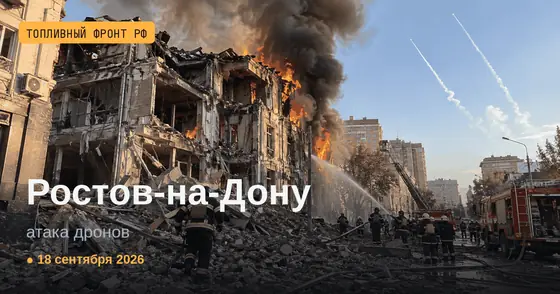
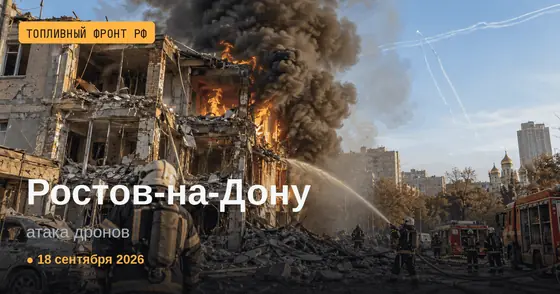
news: regenerate SEO digest + archive

diff --git a/news/2026-09-18.html b/news/2026-09-18.html
@@ -17,7 +17,7 @@
   <meta property="og:url" content="https://npz-tactical-map.vercel.app/news/2026-09-18">
   <meta property="og:title" content="Сводка за 18 сентября 2026: 2 удара по РФ: Ростов-на-Дону, Саки | Топливный фронт РФ">
   <meta property="og:description" content="Топливный фронт РФ за 18 сентября 2026: Вторую ночь подряд беспилотники атаковали аэродром в Ростове-на-Дону; над областью, по данным властей, сбито более 50 БПЛА (Батайск, Таганрог, Азов, А… Удары по НПЗ, дефицит бензина, лимиты на АЗС.">
-  <meta property="og:image" content="https://npz-tactical-map.vercel.app/assets/cover-2026-09-18.png?v=64e28079">
+  <meta property="og:image" content="https://npz-tactical-map.vercel.app/assets/cover-2026-09-18.png?v=89ade970">
   <meta property="og:image:alt" content="Сводка ударов по НПЗ и дефицита бензина — Топливный фронт РФ">
   <meta property="og:image:width" content="1200">
   <meta property="og:image:height" content="630">
@@ -25,12 +25,12 @@
   <meta name="twitter:card" content="summary_large_image">
   <meta name="twitter:title" content="Сводка за 18 сентября 2026: 2 удара по РФ: Ростов-на-Дону, Саки | Топливный фронт РФ">
   <meta name="twitter:description" content="Топливный фронт РФ за 18 сентября 2026: Вторую ночь подряд беспилотники атаковали аэродром в Ростове-на-Дону; над областью, по данным властей, сбито более 50 БПЛА (Батайск, Таганрог, Азов, А… Удары по НПЗ, дефицит бензина, лимиты на АЗС.">
-  <meta name="twitter:image" content="https://npz-tactical-map.vercel.app/assets/cover-2026-09-18.png?v=64e28079">
+  <meta name="twitter:image" content="https://npz-tactical-map.vercel.app/assets/cover-2026-09-18.png?v=89ade970">
   <meta name="twitter:image:alt" content="NPZ Tactical Map — Russia Fuel Crisis Daily Brief">
 
   <link rel="alternate" type="application/rss+xml" title="Топливный фронт РФ — сводки (RSS)" href="https://npz-tactical-map.vercel.app/rss.xml">
 
-  <script type="application/ld+json">{"@context": "https://schema.org", "@type": "NewsArticle", "headline": "Сводка за 18 сентября 2026: 2 удара по РФ: Ростов-на-Дону, Саки", "datePublished": "2026-09-18", "dateModified": "2026-09-19", "image": ["https://npz-tactical-map.vercel.app/assets/cover-2026-09-18.png?v=64e28079"], "author": {"@type": "Organization", "name": "Топливный фронт РФ"}, "publisher": {"@type": "Organization", "name": "Топливный фронт РФ", "url": "https://npz-tactical-map.vercel.app/"}, "description": "Топливный фронт РФ за 18 сентября 2026: Вторую ночь подряд беспилотники атаковали аэродром в Ростове-на-Дону; над областью, по данным властей, сбито более 50 БПЛА (Батайск, Таганрог, Азов, А… Удары по НПЗ, дефицит бензина, лимиты на АЗС.", "mainEntityOfPage": "https://npz-tactical-map.vercel.app/news/2026-09-18", "isAccessibleForFree": true}</script>
+  <script type="application/ld+json">{"@context": "https://schema.org", "@type": "NewsArticle", "headline": "Сводка за 18 сентября 2026: 2 удара по РФ: Ростов-на-Дону, Саки", "datePublished": "2026-09-18", "dateModified": "2026-09-19", "image": ["https://npz-tactical-map.vercel.app/assets/cover-2026-09-18.png?v=89ade970"], "author": {"@type": "Organization", "name": "Топливный фронт РФ"}, "publisher": {"@type": "Organization", "name": "Топливный фронт РФ", "url": "https://npz-tactical-map.vercel.app/"}, "description": "Топливный фронт РФ за 18 сентября 2026: Вторую ночь подряд беспилотники атаковали аэродром в Ростове-на-Дону; над областью, по данным властей, сбито более 50 БПЛА (Батайск, Таганрог, Азов, А… Удары по НПЗ, дефицит бензина, лимиты на АЗС.", "mainEntityOfPage": "https://npz-tactical-map.vercel.app/news/2026-09-18", "isAccessibleForFree": true}</script>
   <script type="application/ld+json">{"@context": "https://schema.org", "@type": "BreadcrumbList", "itemListElement": [{"@type": "ListItem", "position": 1, "name": "Топливный фронт РФ", "item": "https://npz-tactical-map.vercel.app/"}, {"@type": "ListItem", "position": 2, "name": "Сводки", "item": "https://npz-tactical-map.vercel.app/news"}, {"@type": "ListItem", "position": 3, "name": "Сентябрь 2026", "item": "https://npz-tactical-map.vercel.app/news/2026-09"}, {"@type": "ListItem", "position": 4, "name": "18 сентября 2026", "item": "https://npz-tactical-map.vercel.app/news/2026-09-18"}]}</script>
 
   <script>window.va = window.va || function () { (window.vaq = window.vaq || []).push(arguments); };</script>
@@ -194,7 +194,7 @@
     <div class="news-container">
       <nav class="brief-crumb"><a href="/news">📰 Все сводки</a> <span>/</span> <a href="/news/2026-09">Сентябрь 2026</a> <span>/</span> 18 сентября 2026</nav>
       <section class="news-hero">
-        <img class="news-hero-image" src="/assets/cover-2026-09-18.webp?v=f655564d" alt="Сводка за 18 сентября 2026" width="1200" height="630" loading="eager">
+        <img class="news-hero-image" src="/assets/cover-2026-09-18.webp?v=04130e2c" alt="Сводка за 18 сентября 2026" width="1200" height="630" loading="eager">
         <span class="hero-kicker">пятница, 18.09.2026</span>
         <h1>Топливный фронт РФ — сводка за 18 сентября 2026</h1>
         <p class="section-sub">2 зафиксированных удара. OSINT-агрегация по открытым источникам.</p>

diff --git a/news/2026-05-30.html b/news/2026-05-30.html
@@ -17,7 +17,7 @@
   <meta property="og:url" content="https://npz-tactical-map.vercel.app/news/2026-05-30">
   <meta property="og:title" content="Сводка за 30 мая 2026: Удар по нефтебазе в Ростове-на-Дону и ещё 1 удар | Топливный фронт РФ">
   <meta property="og:description" content="Топливный фронт РФ за 30 мая 2026: В ходе ночной атаки 29–30 мая уничтожено 127 БПЛА. Наиболее тяжёлые последствия — в Белгородской области: 3 погибших. Атаке подверглись Белгородская,… Удары по НПЗ, дефицит бензина, лимиты на АЗС.">
-  <meta property="og:image" content="https://npz-tactical-map.vercel.app/og-image.png">
+  <meta property="og:image" content="https://npz-tactical-map.vercel.app/assets/cover-2026-05-30.png?v=9de6d592">
   <meta property="og:image:alt" content="Сводка ударов по НПЗ и дефицита бензина — Топливный фронт РФ">
   <meta property="og:image:width" content="1200">
   <meta property="og:image:height" content="630">
@@ -25,12 +25,12 @@
   <meta name="twitter:card" content="summary_large_image">
   <meta name="twitter:title" content="Сводка за 30 мая 2026: Удар по нефтебазе в Ростове-на-Дону и ещё 1 удар | Топливный фронт РФ">
   <meta name="twitter:description" content="Топливный фронт РФ за 30 мая 2026: В ходе ночной атаки 29–30 мая уничтожено 127 БПЛА. Наиболее тяжёлые последствия — в Белгородской области: 3 погибших. Атаке подверглись Белгородская,… Удары по НПЗ, дефицит бензина, лимиты на АЗС.">
-  <meta name="twitter:image" content="https://npz-tactical-map.vercel.app/og-image.png">
+  <meta name="twitter:image" content="https://npz-tactical-map.vercel.app/assets/cover-2026-05-30.png?v=9de6d592">
   <meta name="twitter:image:alt" content="NPZ Tactical Map — Russia Fuel Crisis Daily Brief">
 
   <link rel="alternate" type="application/rss+xml" title="Топливный фронт РФ — сводки (RSS)" href="https://npz-tactical-map.vercel.app/rss.xml">
 
-  <script type="application/ld+json">{"@context": "https://schema.org", "@type": "NewsArticle", "headline": "Сводка за 30 мая 2026: Удар по нефтебазе в Ростове-на-Дону и ещё 1 удар", "datePublished": "2026-05-30", "dateModified": "2026-09-19", "image": ["https://npz-tactical-map.vercel.app/og-image.png"], "author": {"@type": "Organization", "name": "Топливный фронт РФ"}, "publisher": {"@type": "Organization", "name": "Топливный фронт РФ", "url": "https://npz-tactical-map.vercel.app/"}, "description": "Топливный фронт РФ за 30 мая 2026: В ходе ночной атаки 29–30 мая уничтожено 127 БПЛА. Наиболее тяжёлые последствия — в Белгородской области: 3 погибших. Атаке подверглись Белгородская,… Удары по НПЗ, дефицит бензина, лимиты на АЗС.", "mainEntityOfPage": "https://npz-tactical-map.vercel.app/news/2026-05-30", "isAccessibleForFree": true}</script>
+  <script type="application/ld+json">{"@context": "https://schema.org", "@type": "NewsArticle", "headline": "Сводка за 30 мая 2026: Удар по нефтебазе в Ростове-на-Дону и ещё 1 удар", "datePublished": "2026-05-30", "dateModified": "2026-09-19", "image": ["https://npz-tactical-map.vercel.app/assets/cover-2026-05-30.png?v=9de6d592"], "author": {"@type": "Organization", "name": "Топливный фронт РФ"}, "publisher": {"@type": "Organization", "name": "Топливный фронт РФ", "url": "https://npz-tactical-map.vercel.app/"}, "description": "Топливный фронт РФ за 30 мая 2026: В ходе ночной атаки 29–30 мая уничтожено 127 БПЛА. Наиболее тяжёлые последствия — в Белгородской области: 3 погибших. Атаке подверглись Белгородская,… Удары по НПЗ, дефицит бензина, лимиты на АЗС.", "mainEntityOfPage": "https://npz-tactical-map.vercel.app/news/2026-05-30", "isAccessibleForFree": true}</script>
   <script type="application/ld+json">{"@context": "https://schema.org", "@type": "BreadcrumbList", "itemListElement": [{"@type": "ListItem", "position": 1, "name": "Топливный фронт РФ", "item": "https://npz-tactical-map.vercel.app/"}, {"@type": "ListItem", "position": 2, "name": "Сводки", "item": "https://npz-tactical-map.vercel.app/news"}, {"@type": "ListItem", "position": 3, "name": "Май 2026", "item": "https://npz-tactical-map.vercel.app/news/2026-05"}, {"@type": "ListItem", "position": 4, "name": "30 мая 2026", "item": "https://npz-tactical-map.vercel.app/news/2026-05-30"}]}</script>
 
   <script>window.va = window.va || function () { (window.vaq = window.vaq || []).push(arguments); };</script>
@@ -194,7 +194,7 @@
     <div class="news-container">
       <nav class="brief-crumb"><a href="/news">📰 Все сводки</a> <span>/</span> <a href="/news/2026-05">Май 2026</a> <span>/</span> 30 мая 2026</nav>
       <section class="news-hero">
-        <img class="news-hero-image" src="/og-image.png" alt="Сводка за 30 мая 2026" width="1200" height="630" loading="eager">
+        <img class="news-hero-image" src="/assets/cover-2026-05-30.webp?v=978396c4" alt="Сводка за 30 мая 2026" width="1200" height="630" loading="eager">
         <span class="hero-kicker">суббота, 30.05.2026</span>
         <h1>Топливный фронт РФ — сводка за 30 мая 2026</h1>
         <p class="section-sub">2 зафиксированных удара · 1 по НПЗ/энергетике. OSINT-агрегация по открытым источникам.</p>

diff --git a/news/2026-05-29.html b/news/2026-05-29.html
@@ -17,7 +17,7 @@
   <meta property="og:url" content="https://npz-tactical-map.vercel.app/news/2026-05-29">
   <meta property="og:title" content="Сводка за 29 мая 2026: 1 удар по РФ: Белгород | Топливный фронт РФ">
   <meta property="og:description" content="Топливный фронт РФ за 29 мая 2026: В результате детонации дрона при ударе по посёлку Октябрьский Белгородской области погиб мужчина. РИА Новости подтвердило факт гибели. Удары по НПЗ, дефицит бензина, лимиты на АЗС.">
-  <meta property="og:image" content="https://npz-tactical-map.vercel.app/og-image.png">
+  <meta property="og:image" content="https://npz-tactical-map.vercel.app/assets/cover-2026-05-29.png?v=d66fe0e3">
   <meta property="og:image:alt" content="Сводка ударов по НПЗ и дефицита бензина — Топливный фронт РФ">
   <meta property="og:image:width" content="1200">
   <meta property="og:image:height" content="630">
@@ -25,12 +25,12 @@
   <meta name="twitter:card" content="summary_large_image">
   <meta name="twitter:title" content="Сводка за 29 мая 2026: 1 удар по РФ: Белгород | Топливный фронт РФ">
   <meta name="twitter:description" content="Топливный фронт РФ за 29 мая 2026: В результате детонации дрона при ударе по посёлку Октябрьский Белгородской области погиб мужчина. РИА Новости подтвердило факт гибели. Удары по НПЗ, дефицит бензина, лимиты на АЗС.">
-  <meta name="twitter:image" content="https://npz-tactical-map.vercel.app/og-image.png">
+  <meta name="twitter:image" content="https://npz-tactical-map.vercel.app/assets/cover-2026-05-29.png?v=d66fe0e3">
   <meta name="twitter:image:alt" content="NPZ Tactical Map — Russia Fuel Crisis Daily Brief">
 
   <link rel="alternate" type="application/rss+xml" title="Топливный фронт РФ — сводки (RSS)" href="https://npz-tactical-map.vercel.app/rss.xml">
 
-  <script type="application/ld+json">{"@context": "https://schema.org", "@type": "NewsArticle", "headline": "Сводка за 29 мая 2026: 1 удар по РФ: Белгород", "datePublished": "2026-05-29", "dateModified": "2026-09-19", "image": ["https://npz-tactical-map.vercel.app/og-image.png"], "author": {"@type": "Organization", "name": "Топливный фронт РФ"}, "publisher": {"@type": "Organization", "name": "Топливный фронт РФ", "url": "https://npz-tactical-map.vercel.app/"}, "description": "Топливный фронт РФ за 29 мая 2026: В результате детонации дрона при ударе по посёлку Октябрьский Белгородской области погиб мужчина. РИА Новости подтвердило факт гибели. Удары по НПЗ, дефицит бензина, лимиты на АЗС.", "mainEntityOfPage": "https://npz-tactical-map.vercel.app/news/2026-05-29", "isAccessibleForFree": true}</script>
+  <script type="application/ld+json">{"@context": "https://schema.org", "@type": "NewsArticle", "headline": "Сводка за 29 мая 2026: 1 удар по РФ: Белгород", "datePublished": "2026-05-29", "dateModified": "2026-09-19", "image": ["https://npz-tactical-map.vercel.app/assets/cover-2026-05-29.png?v=d66fe0e3"], "author": {"@type": "Organization", "name": "Топливный фронт РФ"}, "publisher": {"@type": "Organization", "name": "Топливный фронт РФ", "url": "https://npz-tactical-map.vercel.app/"}, "description": "Топливный фронт РФ за 29 мая 2026: В результате детонации дрона при ударе по посёлку Октябрьский Белгородской области погиб мужчина. РИА Новости подтвердило факт гибели. Удары по НПЗ, дефицит бензина, лимиты на АЗС.", "mainEntityOfPage": "https://npz-tactical-map.vercel.app/news/2026-05-29", "isAccessibleForFree": true}</script>
   <script type="application/ld+json">{"@context": "https://schema.org", "@type": "BreadcrumbList", "itemListElement": [{"@type": "ListItem", "position": 1, "name": "Топливный фронт РФ", "item": "https://npz-tactical-map.vercel.app/"}, {"@type": "ListItem", "position": 2, "name": "Сводки", "item": "https://npz-tactical-map.vercel.app/news"}, {"@type": "ListItem", "position": 3, "name": "Май 2026", "item": "https://npz-tactical-map.vercel.app/news/2026-05"}, {"@type": "ListItem", "position": 4, "name": "29 мая 2026", "item": "https://npz-tactical-map.vercel.app/news/2026-05-29"}]}</script>
 
   <script>window.va = window.va || function () { (window.vaq = window.vaq || []).push(arguments); };</script>
@@ -194,7 +194,7 @@
     <div class="news-container">
       <nav class="brief-crumb"><a href="/news">📰 Все сводки</a> <span>/</span> <a href="/news/2026-05">Май 2026</a> <span>/</span> 29 мая 2026</nav>
       <section class="news-hero">
-        <img class="news-hero-image" src="/og-image.png" alt="Сводка за 29 мая 2026" width="1200" height="630" loading="eager">
+        <img class="news-hero-image" src="/assets/cover-2026-05-29.png?v=d66fe0e3" alt="Сводка за 29 мая 2026" width="1200" height="630" loading="eager">
         <span class="hero-kicker">пятница, 29.05.2026</span>
         <h1>Топливный фронт РФ — сводка за 29 мая 2026</h1>
         <p class="section-sub">1 зафиксированный удар. OSINT-агрегация по открытым источникам.</p>

diff --git a/news.html b/news.html
@@ -1361,7 +1361,7 @@
           </div>
         </a>
         <a class="brief-card" href="/news/2026-05-30">
-          <div class="brief-card-cover" style="background-image:url('/og-image.png')">
+          <div class="brief-card-cover" style="background-image:url('/assets/cover-2026-05-30.png?v=9de6d592')">
             <span class="brief-card-date">30 мая</span>
           </div>
           <div class="brief-card-body">
@@ -1371,7 +1371,7 @@
           </div>
         </a>
         <a class="brief-card" href="/news/2026-05-29">
-          <div class="brief-card-cover" style="background-image:url('/og-image.png')">
+          <div class="brief-card-cover" style="background-image:url('/assets/cover-2026-05-29.png?v=d66fe0e3')">
             <span class="brief-card-date">29 мая</span>
           </div>
           <div class="brief-card-body">

diff --git a/news/2026-05.html b/news/2026-05.html
@@ -222,7 +222,7 @@
           </div>
         </a>
         <a class="brief-card" href="/news/2026-05-30">
-          <div class="brief-card-cover" style="background-image:url('/og-image.png')">
+          <div class="brief-card-cover" style="background-image:url('/assets/cover-2026-05-30.png?v=9de6d592')">
             <span class="brief-card-date">30 мая</span>
           </div>
           <div class="brief-card-body">
@@ -232,7 +232,7 @@
           </div>
         </a>
         <a class="brief-card" href="/news/2026-05-29">
-          <div class="brief-card-cover" style="background-image:url('/og-image.png')">
+          <div class="brief-card-cover" style="background-image:url('/assets/cover-2026-05-29.png?v=d66fe0e3')">
             <span class="brief-card-date">29 мая</span>
           </div>
           <div class="brief-card-body">
